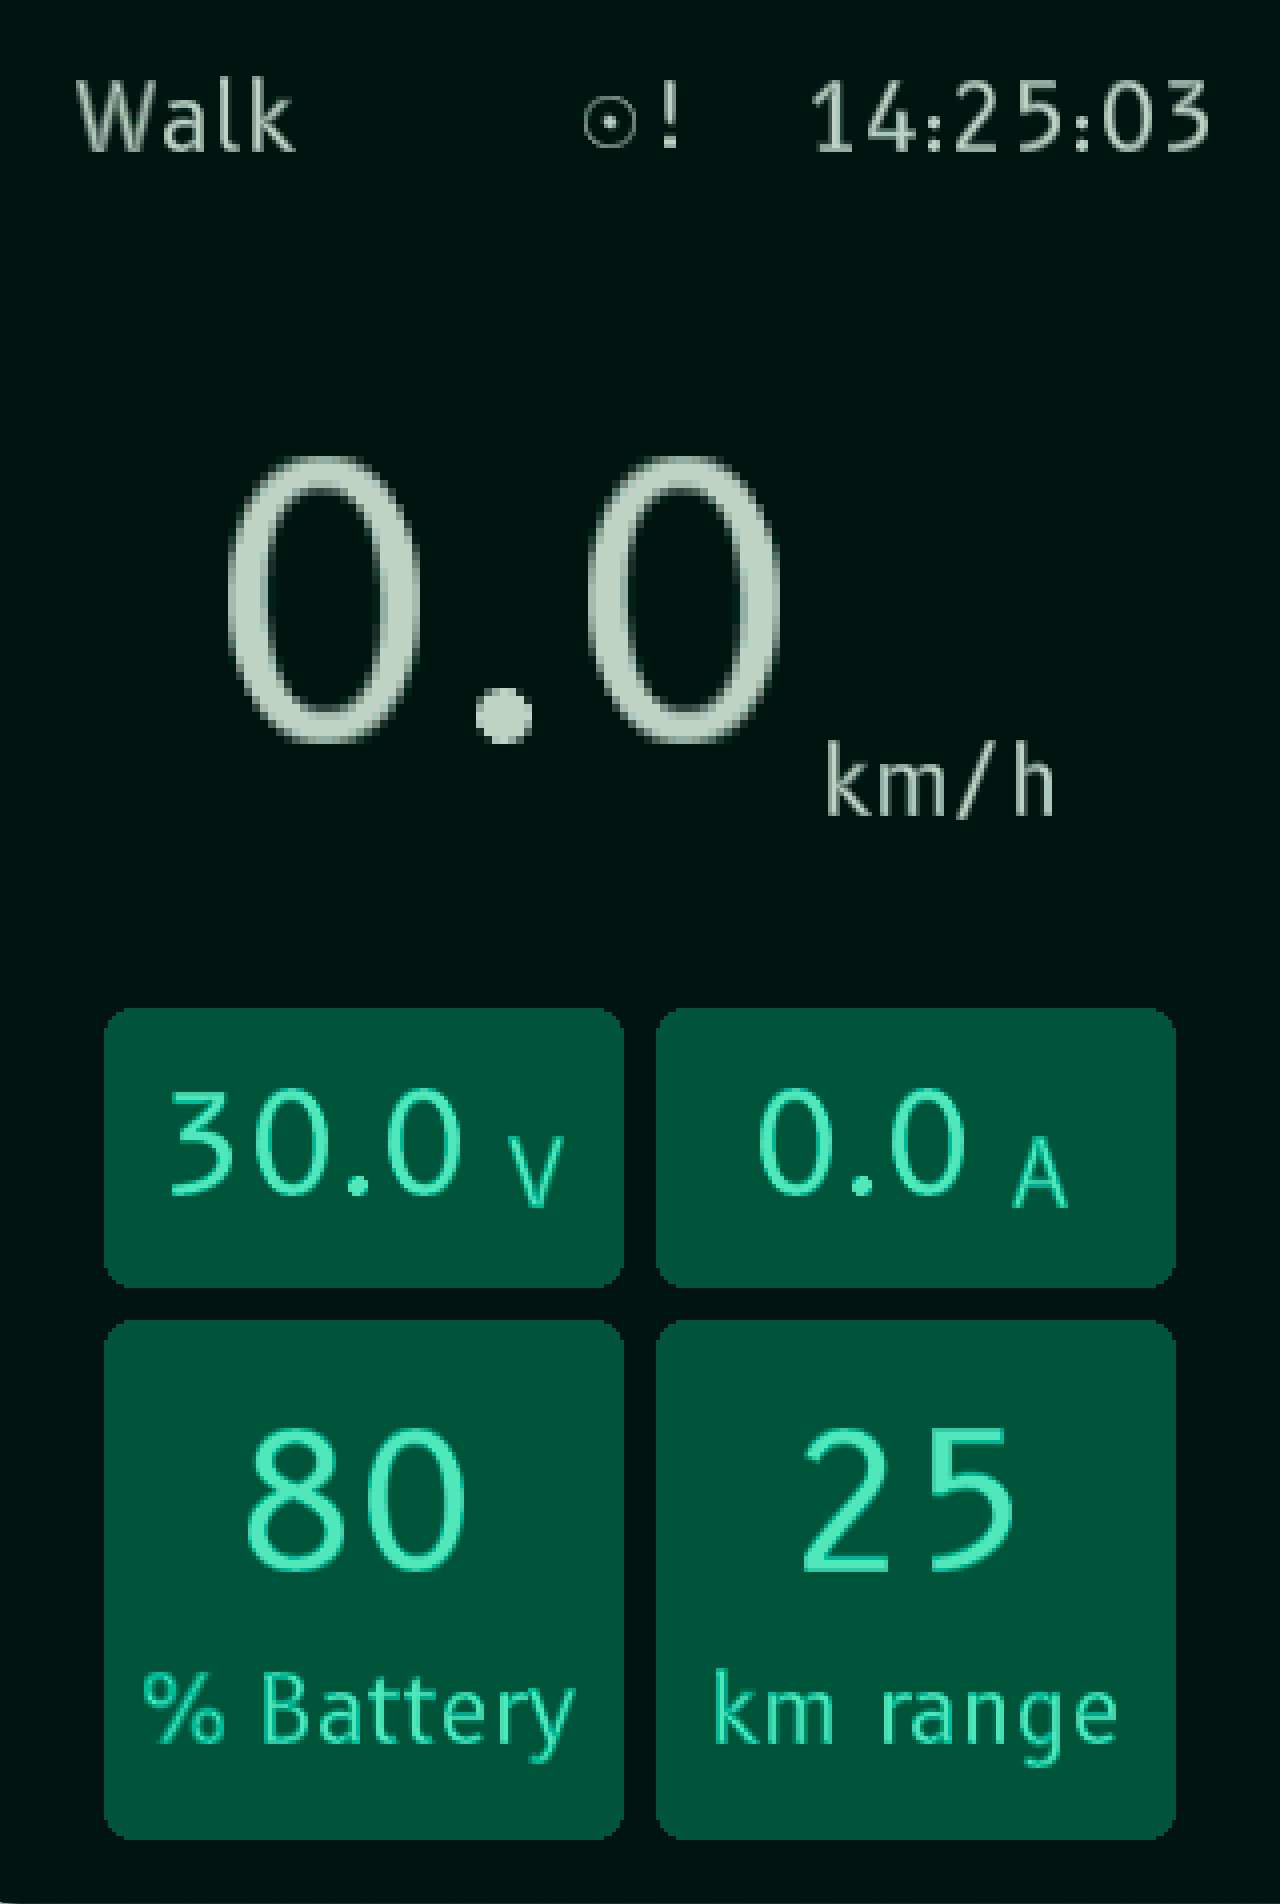
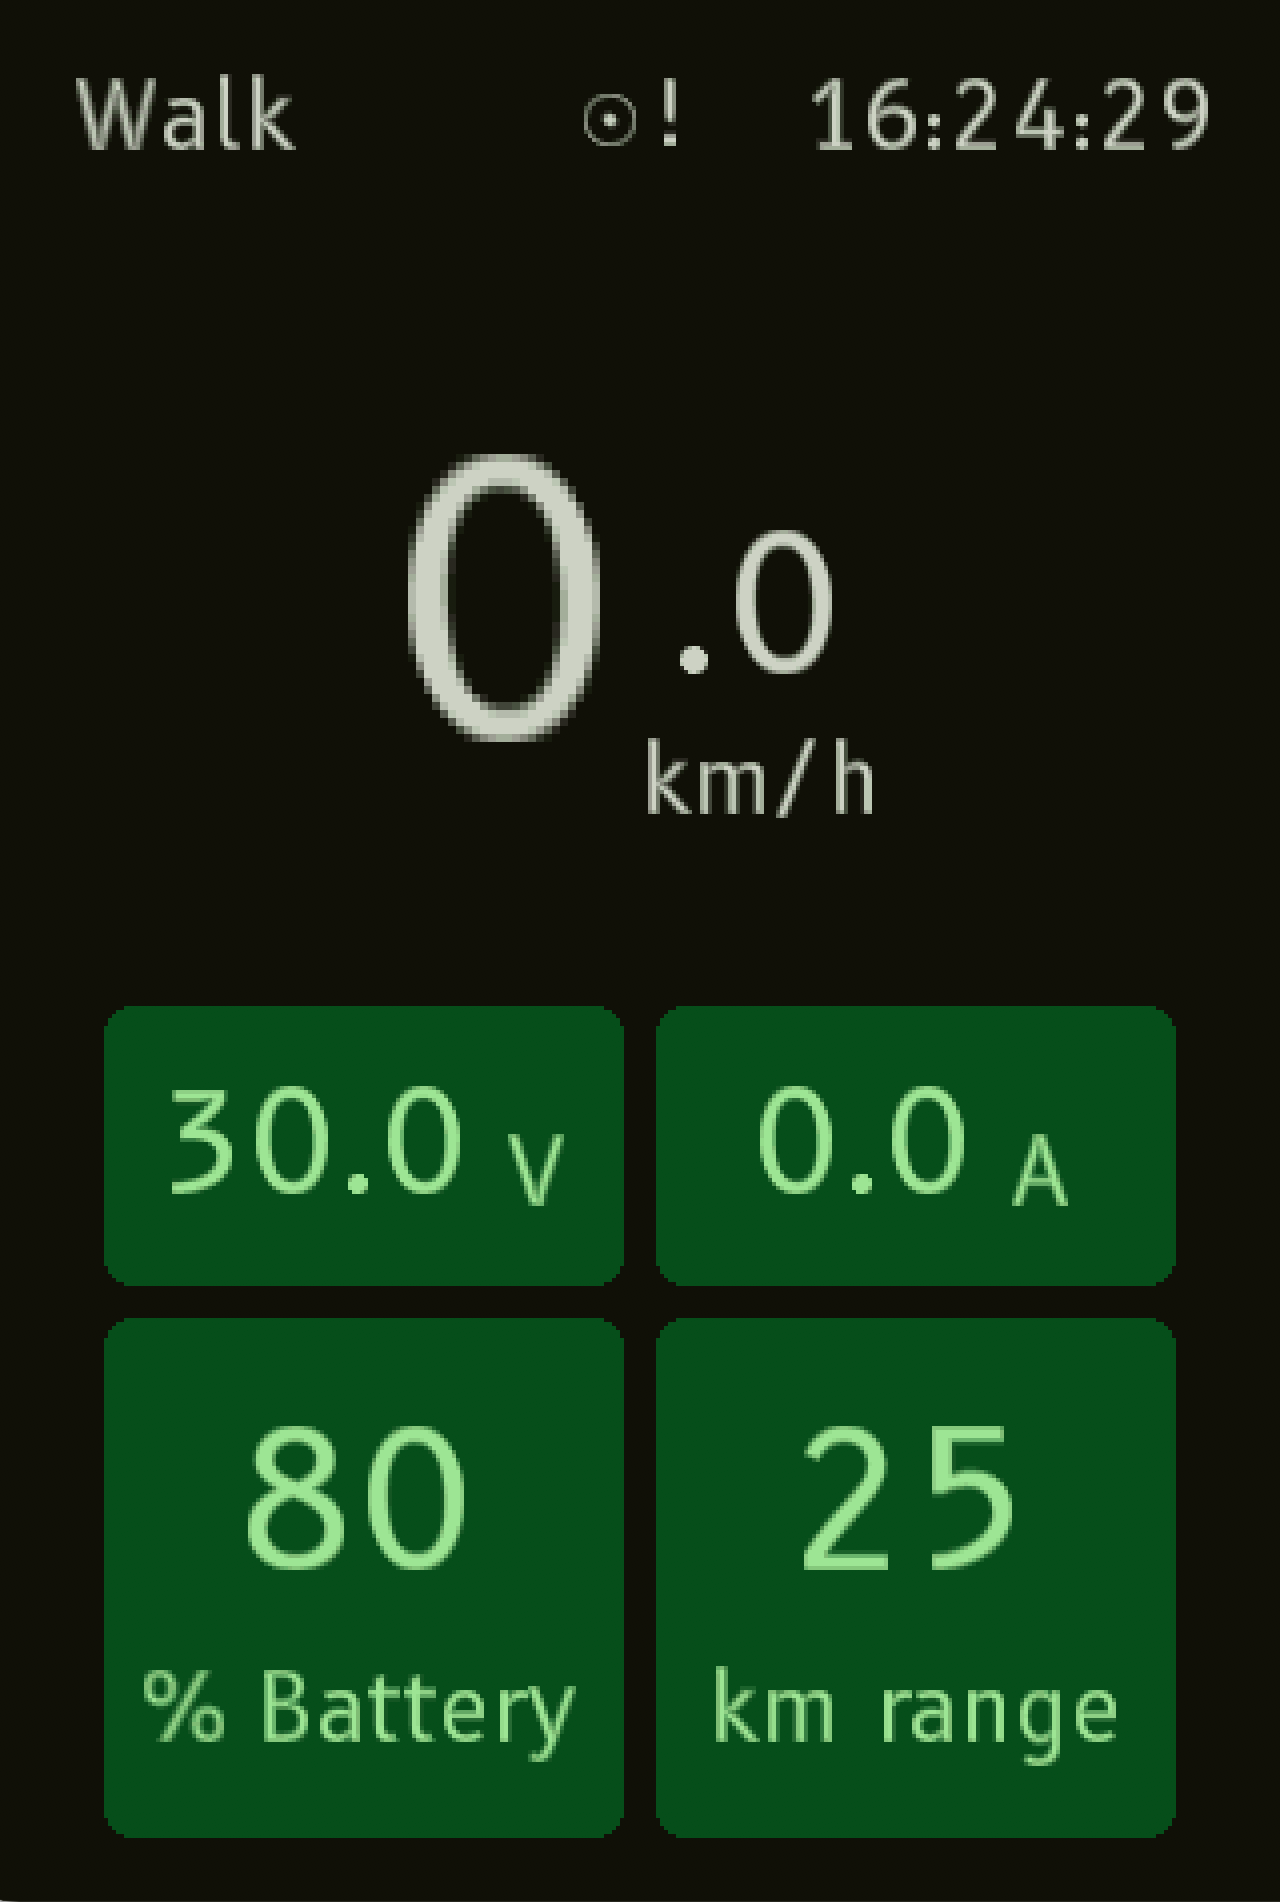
Readme updates

diff --git a/README.md b/README.md
@@ -6,11 +6,10 @@ Egret GT.
 It's written in Rust and targets the AT32F415 microcontroller in the display unit.
 
 <div style="display: flex; flex-direction: row; gap: 1em">
-    <img src="docs/SCR-20260711-muva.png" width="150" />
     <img src="docs/SCR-20260711-muxd.png" width="150" />
+    <img src="docs/SCR-20260711-muva.png" width="150" />
     <img src="docs/SCR-20260711-muzz.png" width="150" />
     <img src="docs/SCR-20260711-mvdf.png" width="150" />
-    <img src="docs/SCR-20260711-mvqc.png" width="150" />
 </div>
 
 ### Features